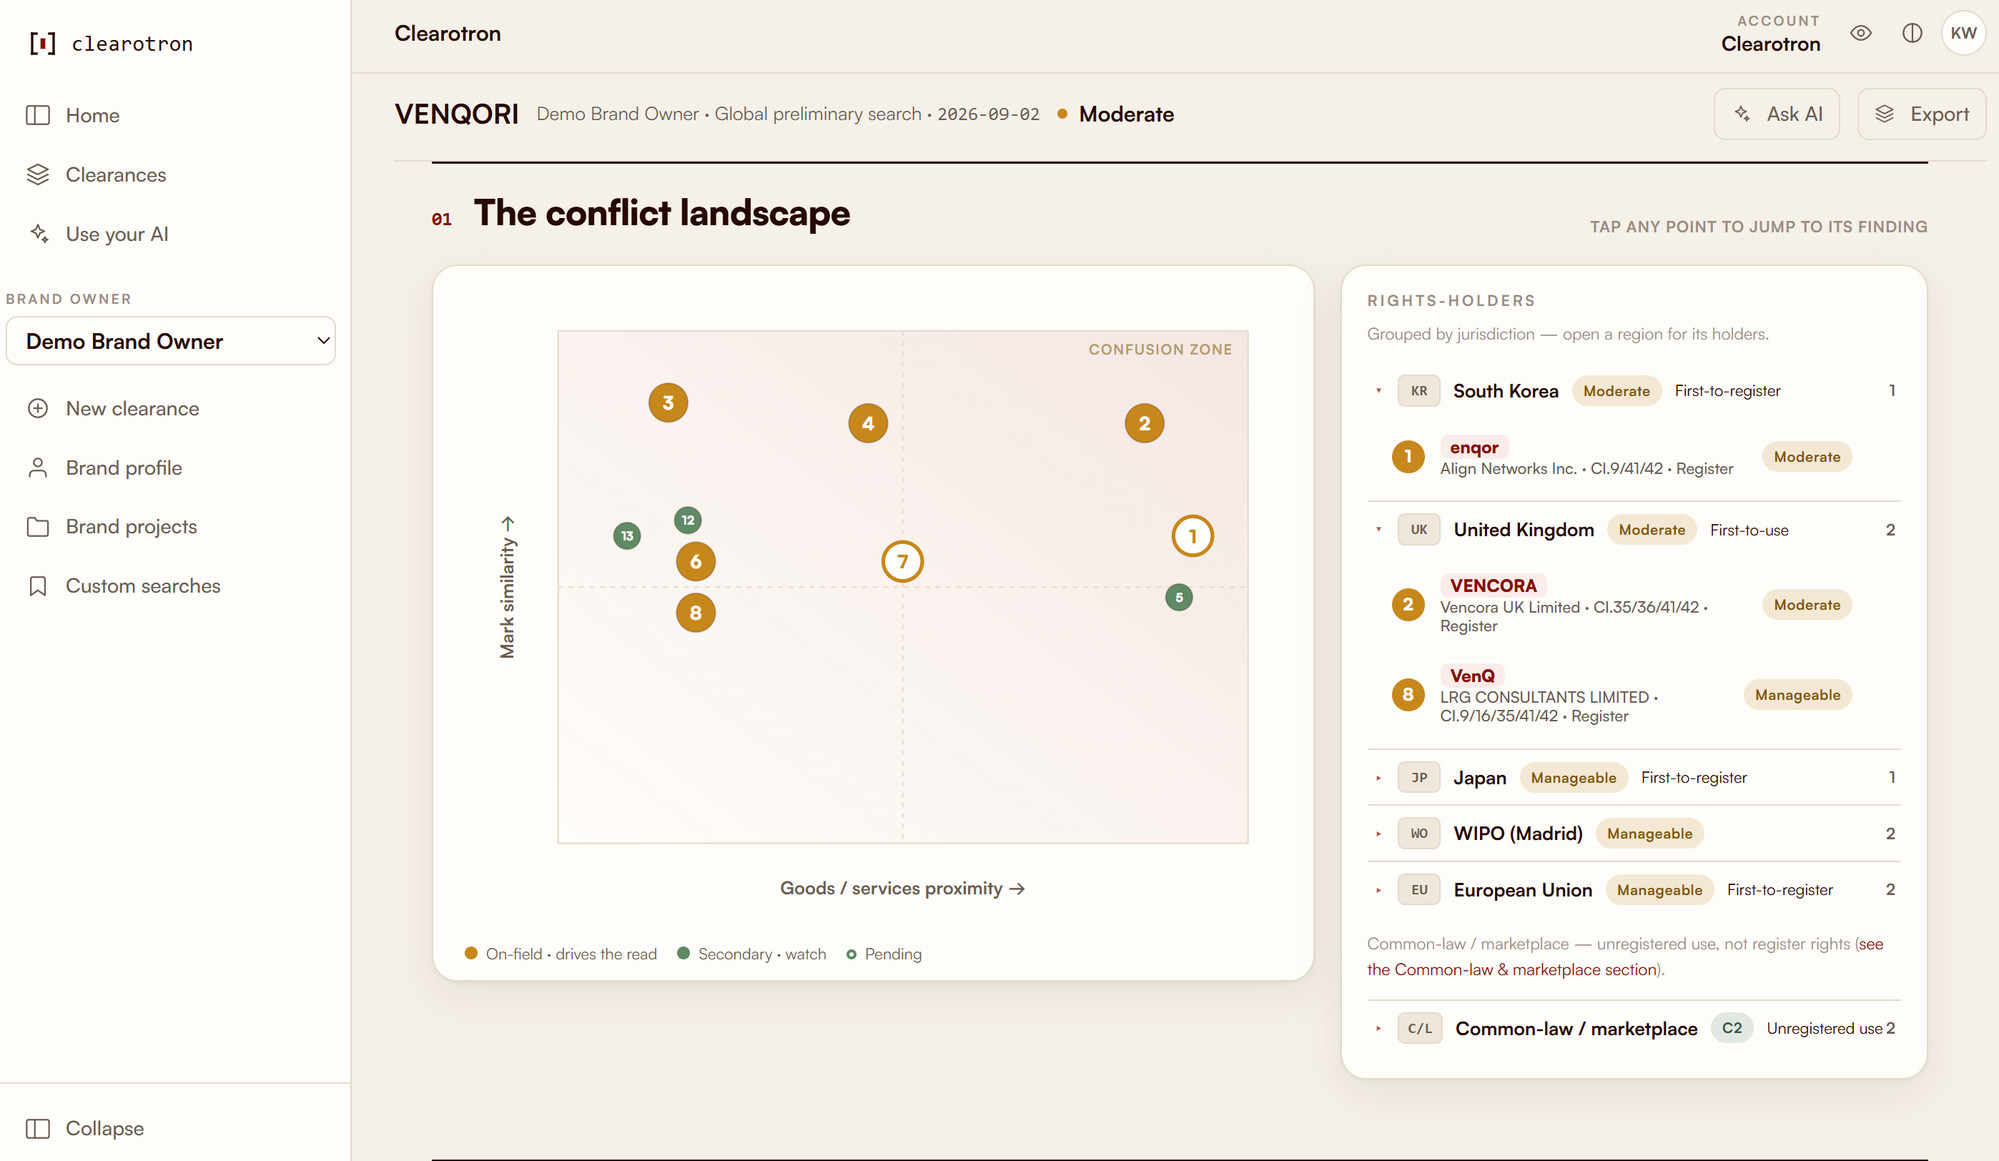
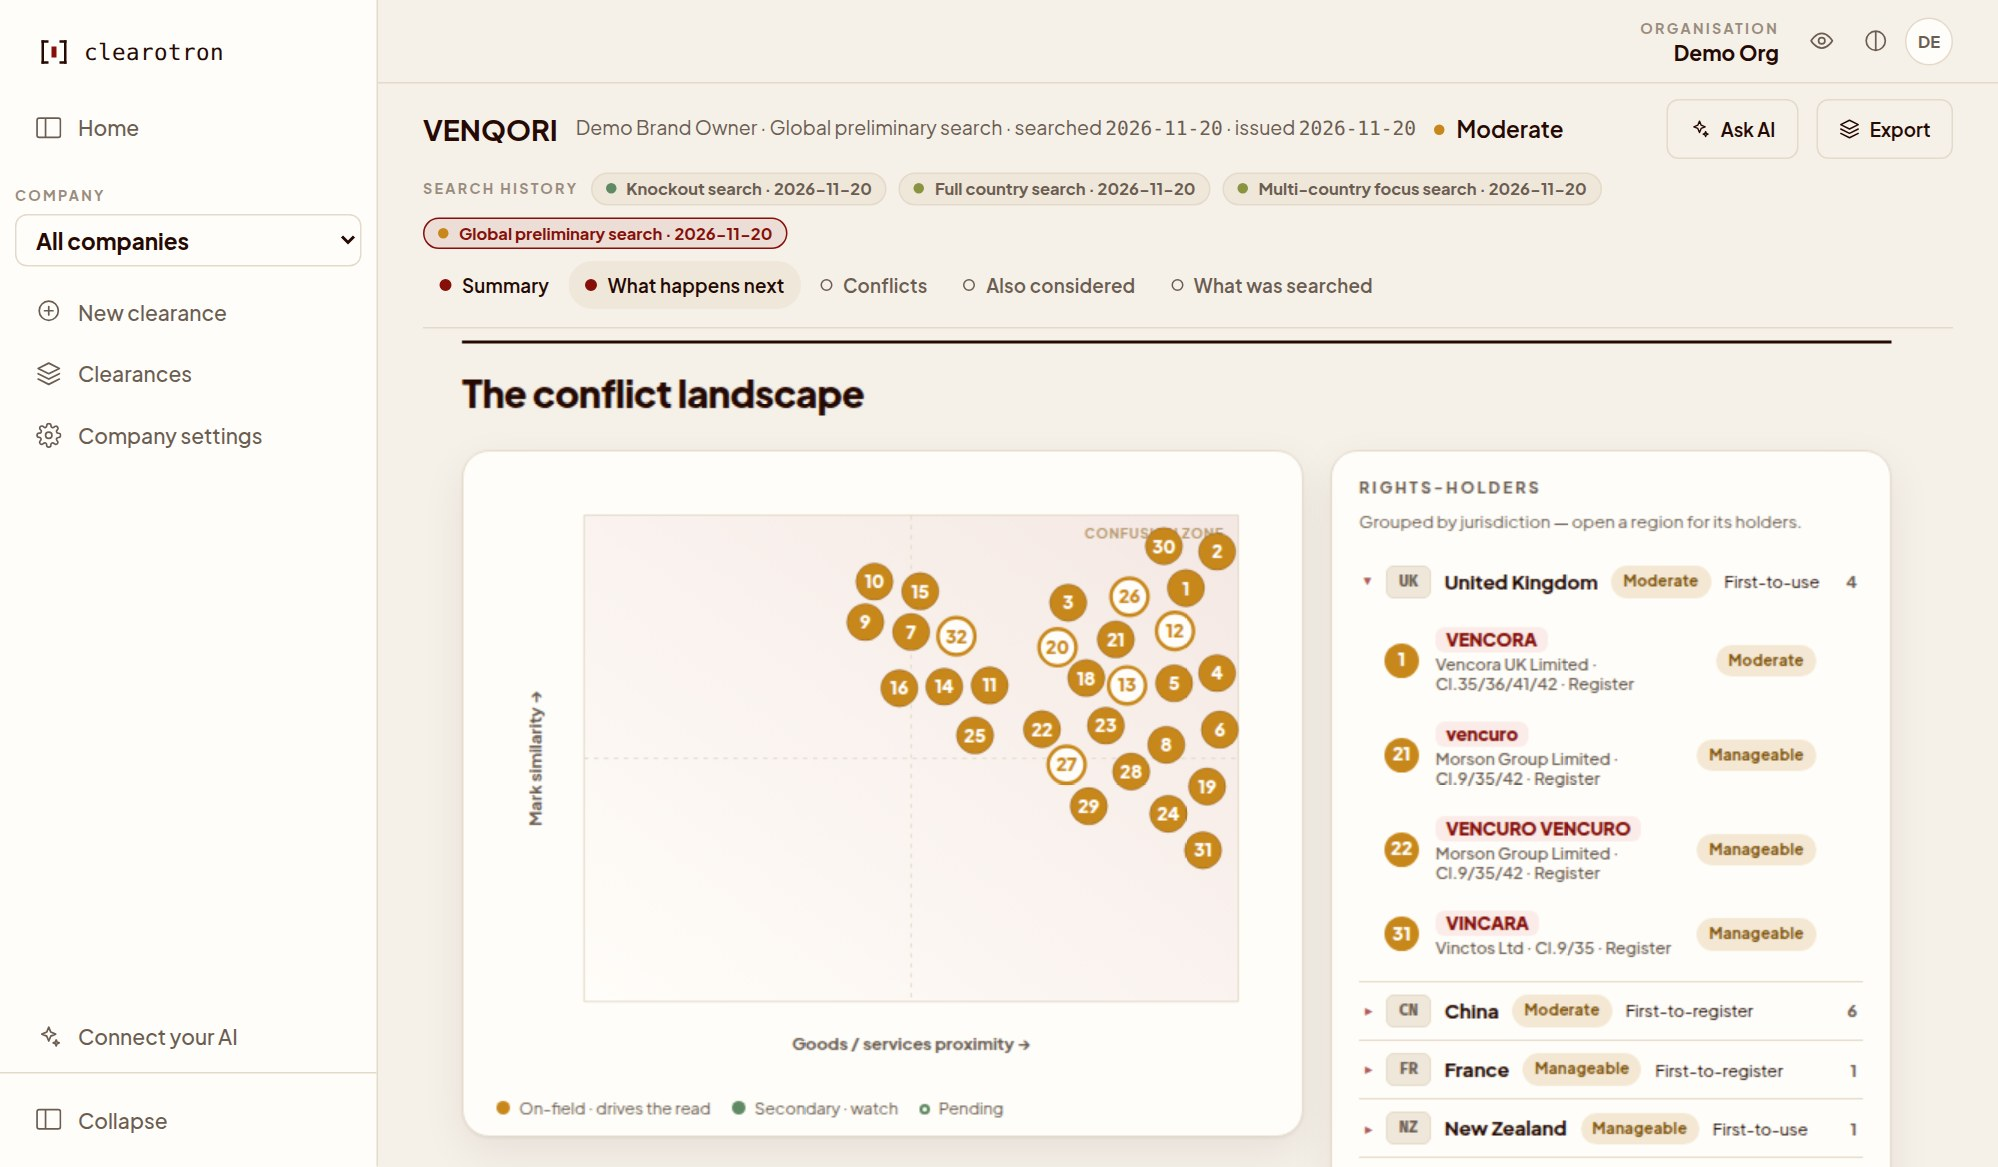
README: retake the three portal pictures from the demo, with the command that keeps them current
The README's pictures of New clearance, a finished report and its conflict landscape dated from before the portal's September overhaul. They named places the product no longer has. All three are retaken from this checkout's own demo, in the light theme, at the old pictures' size and type scale (1,332 × 778 CSS pixels at device scale 1.5). Each is framed on what its README caption names:
- New clearance from the company line, which states the classes and marketplaces, down through Which search with the four searches open.
- The report at its verdict, risk band and the four answers.
- The report's conflict landscape with its rights-holders.

`scripts/readme-pictures.mjs` takes them. It starts the demo in a throwaway home with a minimal environment, resets that demo's sign-in to a passphrase it never prints, and drives headless Chrome. The report frame is sandboxed, so the script reads it as its own DevTools target. It writes the three files and prints their provenance line, then reaps the demo and the browser. `docs/assets/README.md` says when to run it and names each picture's release and command. The script is in the scripts index and is declared as one CI cannot run, because it asserts nothing.

Verified: each picture was opened and read by eye. `browser-check-membership`, `a-detached-group-dies-with-its-script`, `every-script-has-a-row-in-the-scripts-index` and `no-nul-bytes` pass.

tracker issue 1466

diff --git a/docs/assets/README.md b/docs/assets/README.md
@@ -8,9 +8,9 @@ written down here rather than left in a commit message.
 |---|---|---|
 | `clearotron-banner-light.svg` | The README masthead, light scheme | Hand-made brand source |
 | `clearotron-banner-dark.svg` | The same masthead for `prefers-color-scheme: dark` | Hand-made brand source |
-| `portal-clearance-report.jpg` | A finished clearance report — verdict, risk band, the four answers | Portal screenshot |
-| `portal-conflict-landscape.jpg` | Findings placed by mark similarity against goods proximity, with rights-holders by jurisdiction | Portal screenshot |
-| `portal-new-clearance.png` | The intake screen — classes, marketplaces, search depth | Portal screenshot |
+| `portal-clearance-report.jpg` | A finished clearance report — verdict, risk band, the four answers | Clearotron 0.8.0, taken on its line before the first beta: `node scripts/readme-pictures.mjs` |
+| `portal-conflict-landscape.jpg` | Findings placed by mark similarity against goods proximity, with rights-holders by jurisdiction | Clearotron 0.8.0, taken on its line before the first beta: `node scripts/readme-pictures.mjs` |
+| `portal-new-clearance.png` | The intake screen — classes, marketplaces, search depth | Clearotron 0.8.0, taken on its line before the first beta: `node scripts/readme-pictures.mjs` |
 
 ## Two things worth knowing before changing anything here
 
@@ -22,6 +22,22 @@ quietly showing a hole.
 **A picture the README embeds must be one that travels with the documentation.** Embedding one that does
 not produces a page whose image cannot load — a defect that shipped here once already, and one the test
 above now asserts against directly rather than leaving to review.
+
+## Retaking the three portal pictures
+
+`portal-new-clearance.png`, `portal-clearance-report.jpg` and `portal-conflict-landscape.jpg` show the
+portal, so they go stale whenever it changes. One command retakes all three from this checkout's own demo:
+
+```sh
+npm run build:ui
+node scripts/readme-pictures.mjs
+```
+
+It starts the demo in a throwaway home, signs in, and captures New clearance, the demo's Global
+preliminary search report, and that report's conflict landscape. The captures are in the light theme at
+1,332 × 778 CSS pixels and device scale 1.5. It writes over the three files here and prints the line for
+the table above. Only the committed demo is on screen. Run it whenever a change alters one of those
+screens or regenerates `demo/`, look at each picture before committing it, and never edit one by hand.
 
 ## Adding one
 

diff --git a/scripts/README.md b/scripts/README.md
@@ -20,6 +20,7 @@ The axis is *what the script assumes exists*, not where it happens to be run.
 | `report-print-check.mjs` | Shows what the exported PDF actually renders under print media. Run by CI. |
 | `report-offline-render-check.mjs` | Opens every demo report, from disk and served under the portal's report policy, and every pool index, and fails on any request to another machine or an embedded font that did not load. Run by CI. |
 | `report-overflow-check.mjs` | Checks the same two kinds of report for sideways overflow on screen — the print check cannot see a width, because print sets the watermark to `display:none` and the watermark was the overflow. Kept outside this repository. |
+| `readme-pictures.mjs` | Retakes the README's three portal pictures from this checkout's own demo: New clearance, a finished report and its conflict landscape. By hand, whenever a change alters one of those screens; see `docs/assets/README.md`. |
 | `portal-lifecycle-check.mjs` | Asks whether the portal names a brand owner and whether a person can manage their searches. Run by CI. |
 | `portal-strings.mjs` | Reads every string the portal can show out of its source, as a reader meets it. `--check <approved list>` refuses a string on a screen that is neither approved nor in `portal-ui/strings-backlog.json`; `--backlog-shrinks --base <ref>` refuses a backlog line the base did not have. The approved list is kept with the designs, outside this repository. CI runs the backlog half. |
 | `validate-profiles.mjs` | Validates a customer-config store's profile bundles. Read-only. |
@@ -234,6 +235,7 @@ row that names a file this folder does not hold.
 | `report-header-render-check.mjs` | CI |
 | `report-offline-render-check.mjs` | CI |
 | `report-print-check.mjs` | CI |
+| `readme-pictures.mjs` | by hand |
 | `report-screenshot.mjs` | by hand |
 | `report-sections-render-check.mjs` | CI |
 | `report-theme-render-check.mjs` | CI |

diff --git a/.changeset/readme-pictures-show-todays-portal.md b/.changeset/readme-pictures-show-todays-portal.md
@@ -1,0 +1,5 @@
+---
+"clearotron-driver": minor
+---
+
+Fixed: The README's three pictures of the portal show today's screens, taken from the demo: New clearance, a finished report, and its conflict landscape.
